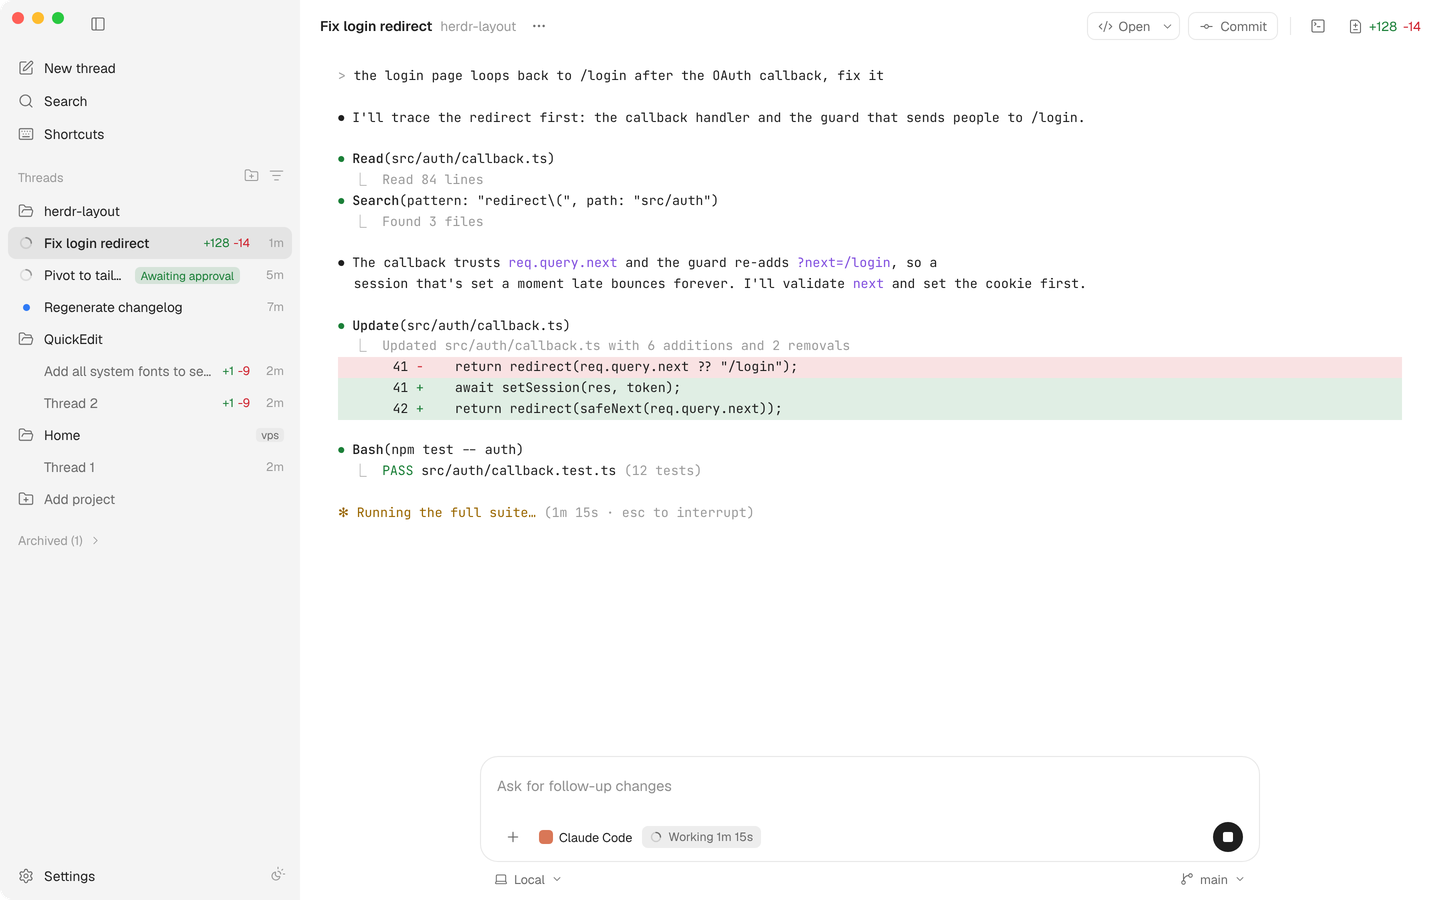
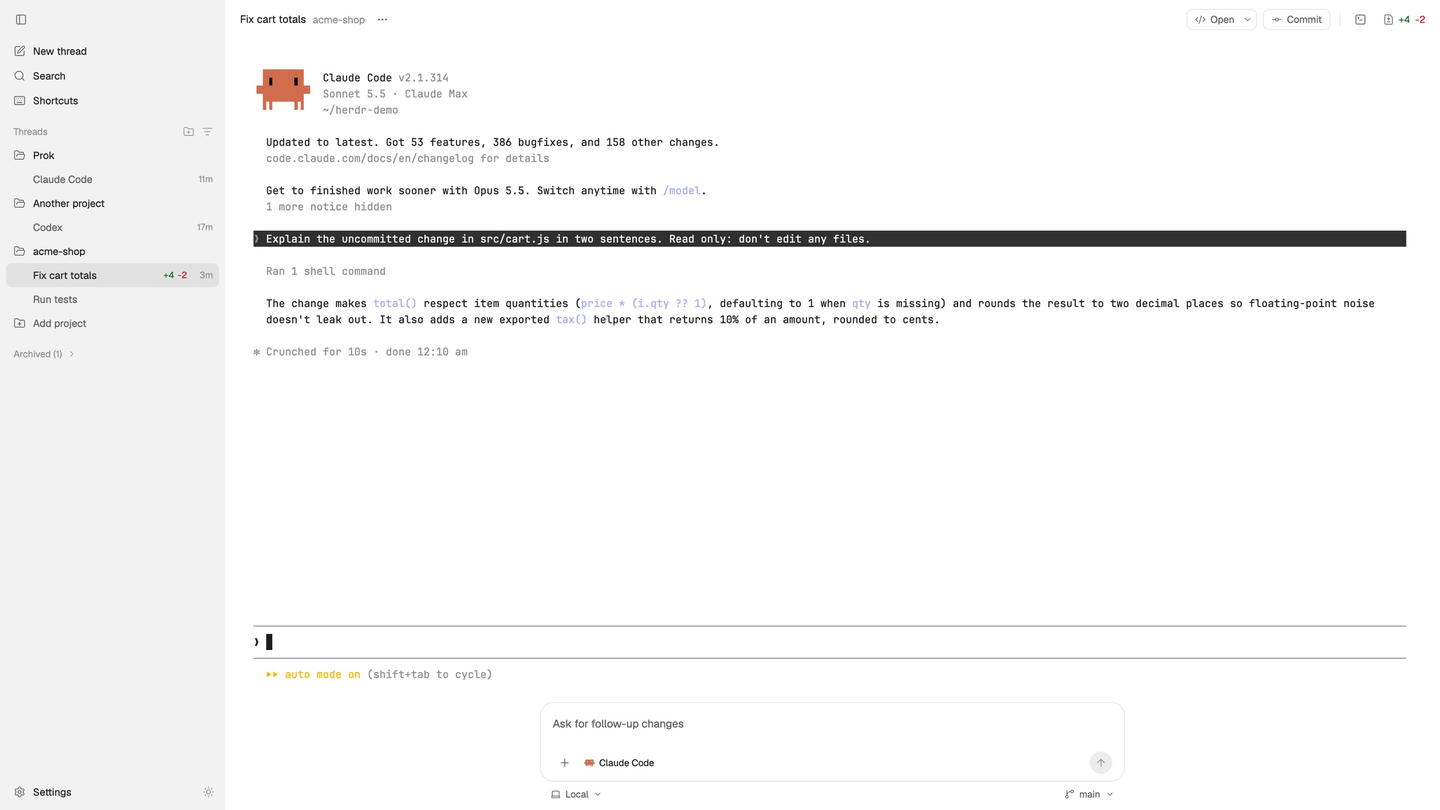
Replace drawn light-mode and review-panel images with real Herdr captures
Claude-Session: https://claude.ai/code/session_01DgJSEhjr9wWgTL8vJB9NES

diff --git a/README.md b/README.md
@@ -20,6 +20,9 @@ panel. Light and dark themes switch from the sidebar.
 |---|---|
 | ![Studio, light](studio/docs/studio-light.png) | ![Studio with the review panel](studio/docs/studio-review-dark.png) |
 
+All three pictures are real captures from Herdr 0.1.9 on macOS. They show a
+small demo project.
+
 ### Add it
 
 Tell your agent:
